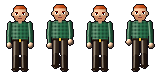
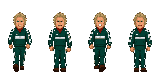
Biff: neue Figur des Nutzers
Figurenhöhe 60 Pixel, Klickfläche im Vorgarten angepasst, Figur vor dem Übermalen geschützt.

diff --git a/tools/paint/build.ts b/tools/paint/build.ts
@@ -135,7 +135,7 @@ run('titel', 'assets/ui/title.png', paintTitel, false);
 run('delorean', 'assets/characters/delorean/delorean.png', Sp.zeitwagen, true);
 run('zeitzug', 'assets/characters/zeitzug/zeitzug.png', Sp.zeitzug, true);
 /** Vom Nutzer gezeichnete Figuren: Alle ihre Animationen und das Porträt bleiben unangetastet. */
-const EIGENE_FIGUREN = new Set(['marty', 'lorraine']);
+const EIGENE_FIGUREN = new Set(['marty', 'lorraine', 'biff']);
 
 for (const id of FIGURE_IDS) {
   if (EIGENE_FIGUREN.has(id)) continue;

diff --git a/src/game/rooms/vorgarten.ts b/src/game/rooms/vorgarten.ts
@@ -155,7 +155,7 @@ const normal: RoomVariant = {
     {
       id: 'biff',
       name: 'hotspot.biff',
-      area: rect(156, 48, 31, 65),
+      area: rect(156, 55, 31, 58),
       walkTo: [146, 114],
       face: 'rechts',
       defaultVerb: 'redemit',
